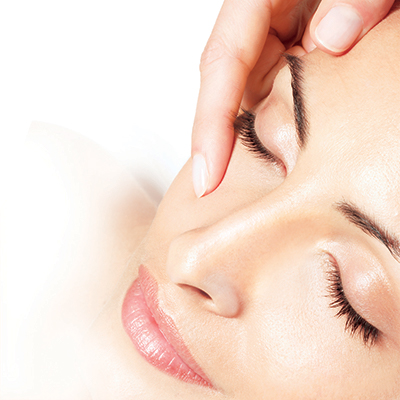
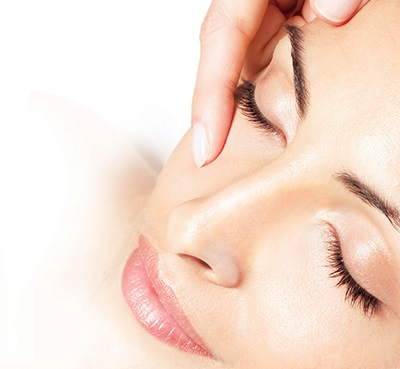
lieu trinh chi tiet

Changed region(s): [[0.3, 0.0, 1.0, 0.9539], [0.3, 0.1789, 0.51, 0.5068], [0.9, 0.3577, 0.93, 0.4173]]

diff --git a/lib/lieutrinh/l-1/index.sass b/lib/lieutrinh/l-1/index.sass
@@ -2,6 +2,10 @@
 
 .canhcam-lieutrinh-1
 	.item
+		.img
+			overflow: hidden
+		img
+			transition: all .3s ease-in-out
 		figcaption
 			+pad(.75rem)
 			display: flex
@@ -15,10 +19,13 @@
 			border: 1px solid color-get($mau, main)
 			background: white
 			color: color-get($mau, main)
+			+transition(all .3s ease-in-out)
 		.price
 			color: color-get($mau, den)
 			+fw(600)
 		&:hover
+			img
+				transform: scale(1.2)
 			h3
 				color: color-get($mau, main)
 			.btn-primary

diff --git a/lib/lieutrinhchitiet/l-1/index.sass b/lib/lieutrinhchitiet/l-1/index.sass
@@ -5,3 +5,15 @@
 	.chitiet
 		img
 			margin: auto
+	.step
+		+pad(2rem 0)
+		background: lighten(color-get($mau, main), 35%)
+		h4
+			color: color-get($mau, main)
+			+fz( 1.25rem)
+		figure
+			background: color-get($mau, trang)
+			img
+				width: 100%
+			figcaption
+				+pad(0.75rem)

diff --git a/lib/carousel/c-3/index.sass b/lib/carousel/c-3/index.sass
@@ -4,7 +4,7 @@
 //////////////////////////////////////
 
 .canhcam-carousel-3
-	+mrc-padding
+	+pad(2rem 0 0 0)
 	.owl-carousel
 		position: relative
 		// Main
